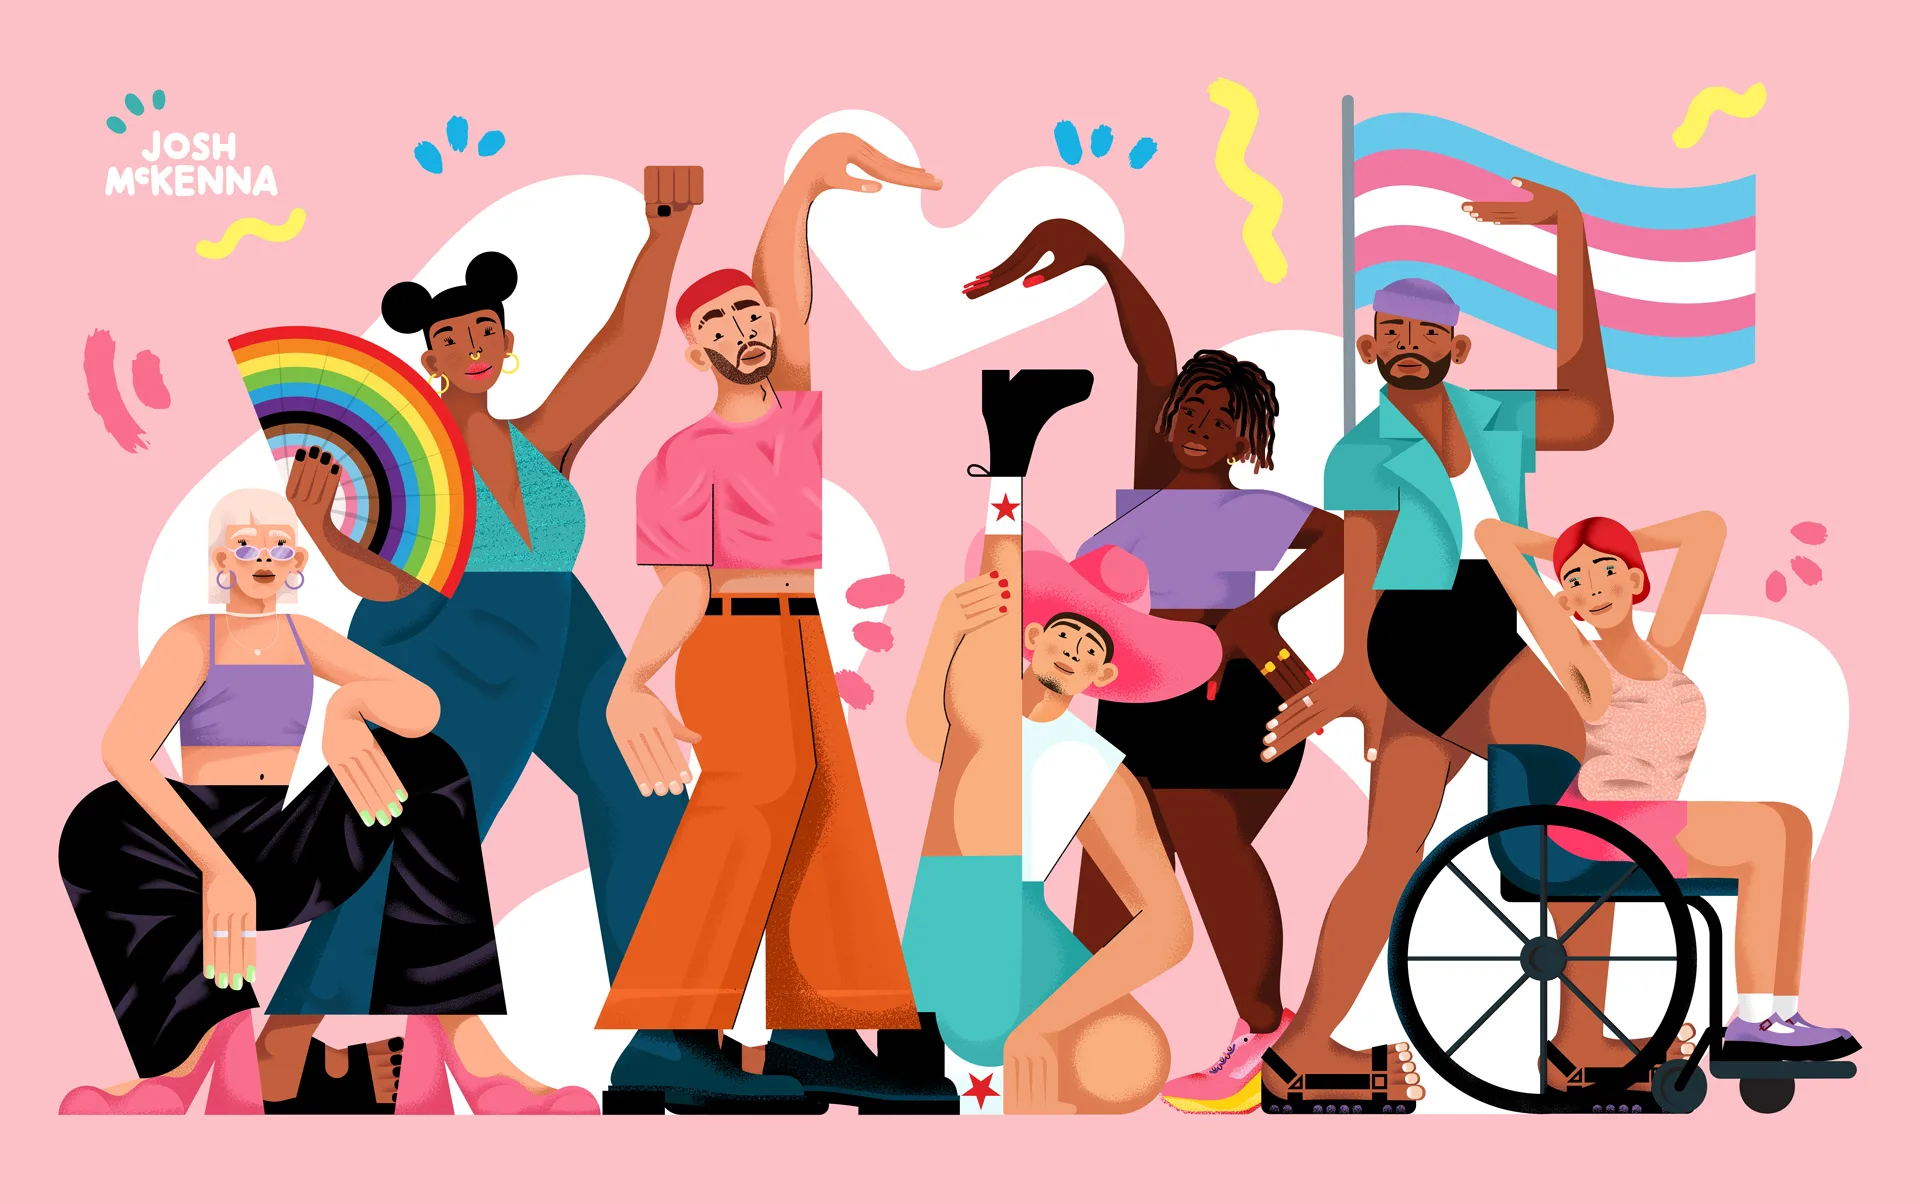
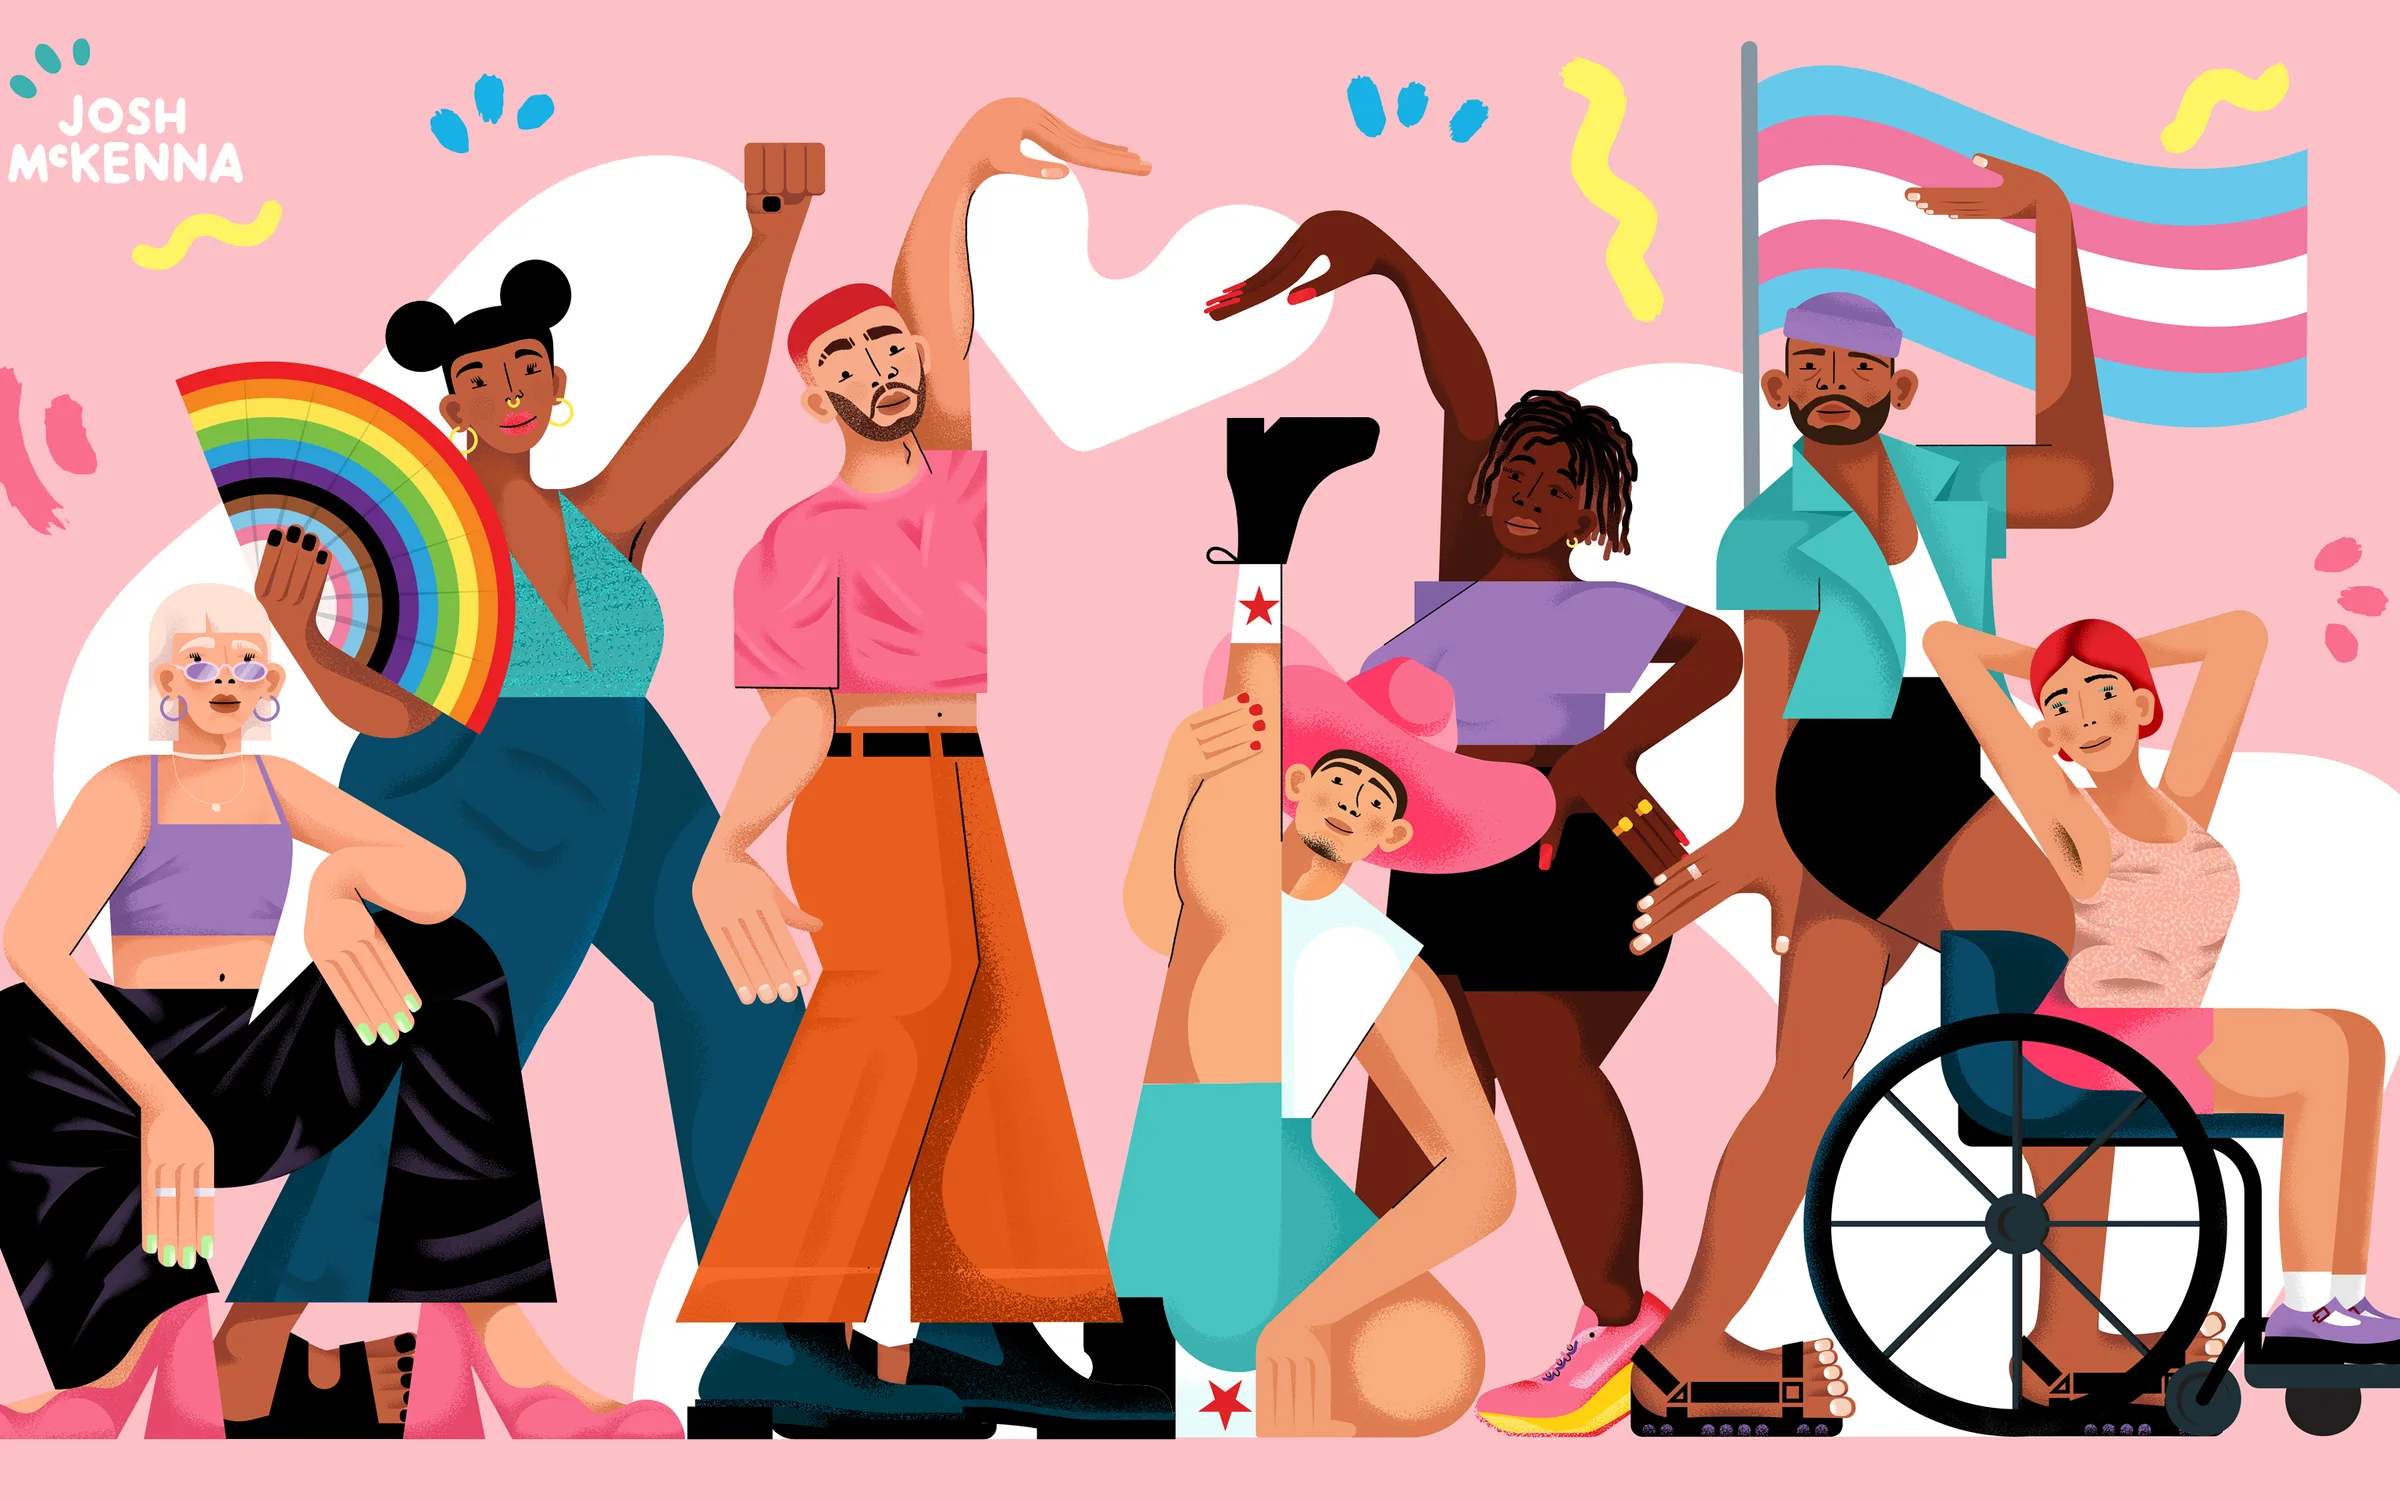
fix(work): use Josh's high-res artwork export for the Wagamama hero
Josh dropped a higher-resolution export (3333x1920) into the source
folder after the first pass. Cropped 131px off each side to hit the
site's 16/10 hero ratio — checked both edge strips first, only clips
empty pink background and a sliver of decorative brush marks, nothing
load-bearing. Output resizes down to the usual 2400px max edge.

Also trims the brief's character list per Josh — the sentence reads
better without itemising all eight.

diff --git a/lib/projects.ts b/lib/projects.ts
@@ -629,7 +629,7 @@ export const projects: Project[] = [
     summary: "Eight characters celebrating Pride, wrapped across a restaurant window.",
     heroCaption: "The full artwork, designed for Wagamama's Brighton window.",
     brief: [
-      "A Pride window display for Wagamama's Brighton restaurant, celebrating the city's diverse and inclusive spirit. Eight characters — a rainbow fan, a raised fist, a trans flag, a wheelchair — spread across the glass as a joyful tribute to the LGBTQIA+ community. It's stayed up as a permanent feature of the restaurant's window ever since.",
+      "A Pride window display for Wagamama's Brighton restaurant, celebrating the city's diverse and inclusive spirit. Eight characters spread across the glass as a joyful tribute to the LGBTQIA+ community. It's stayed up as a permanent feature of the restaurant's window ever since.",
     ],
     credits: [
       { role: "Illustration", name: "Josh McKenna" },
